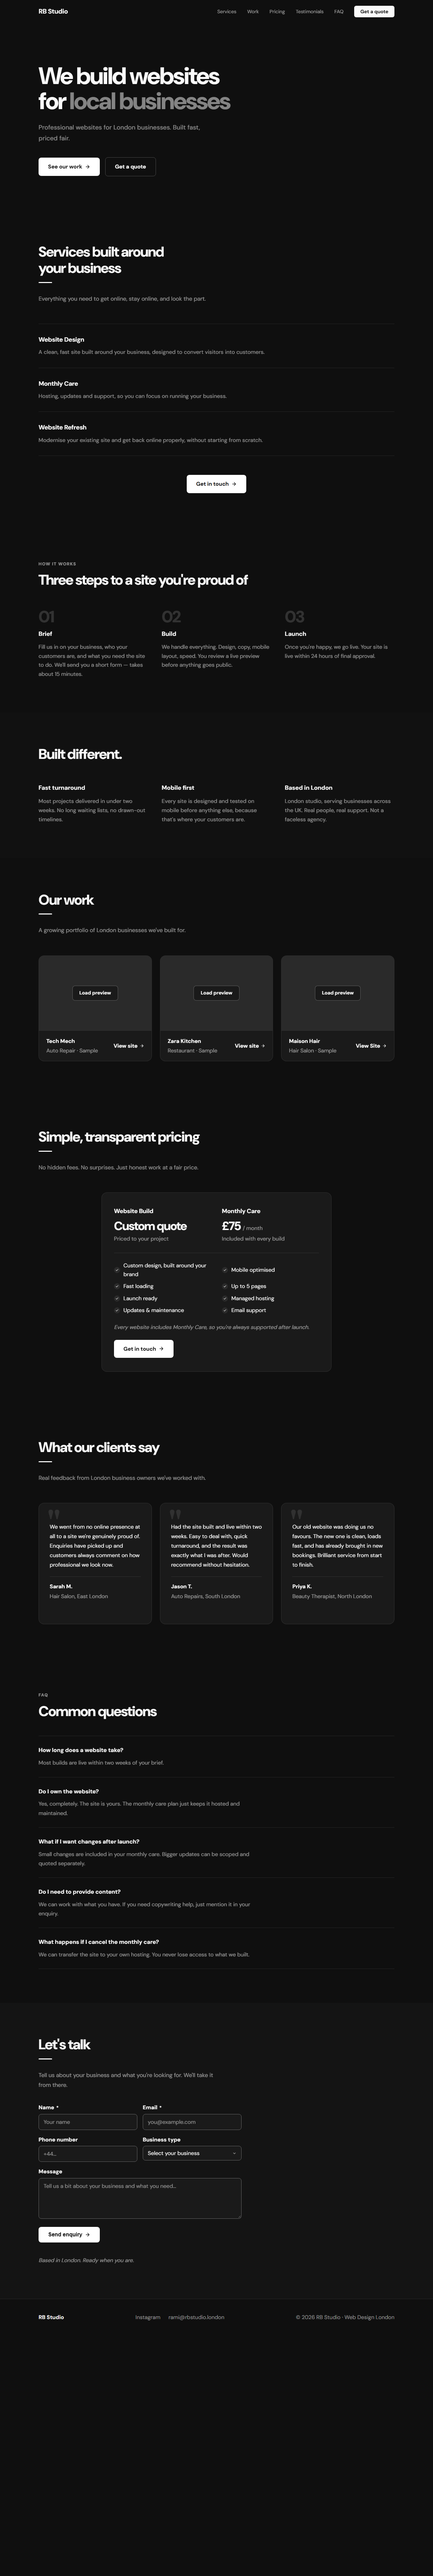
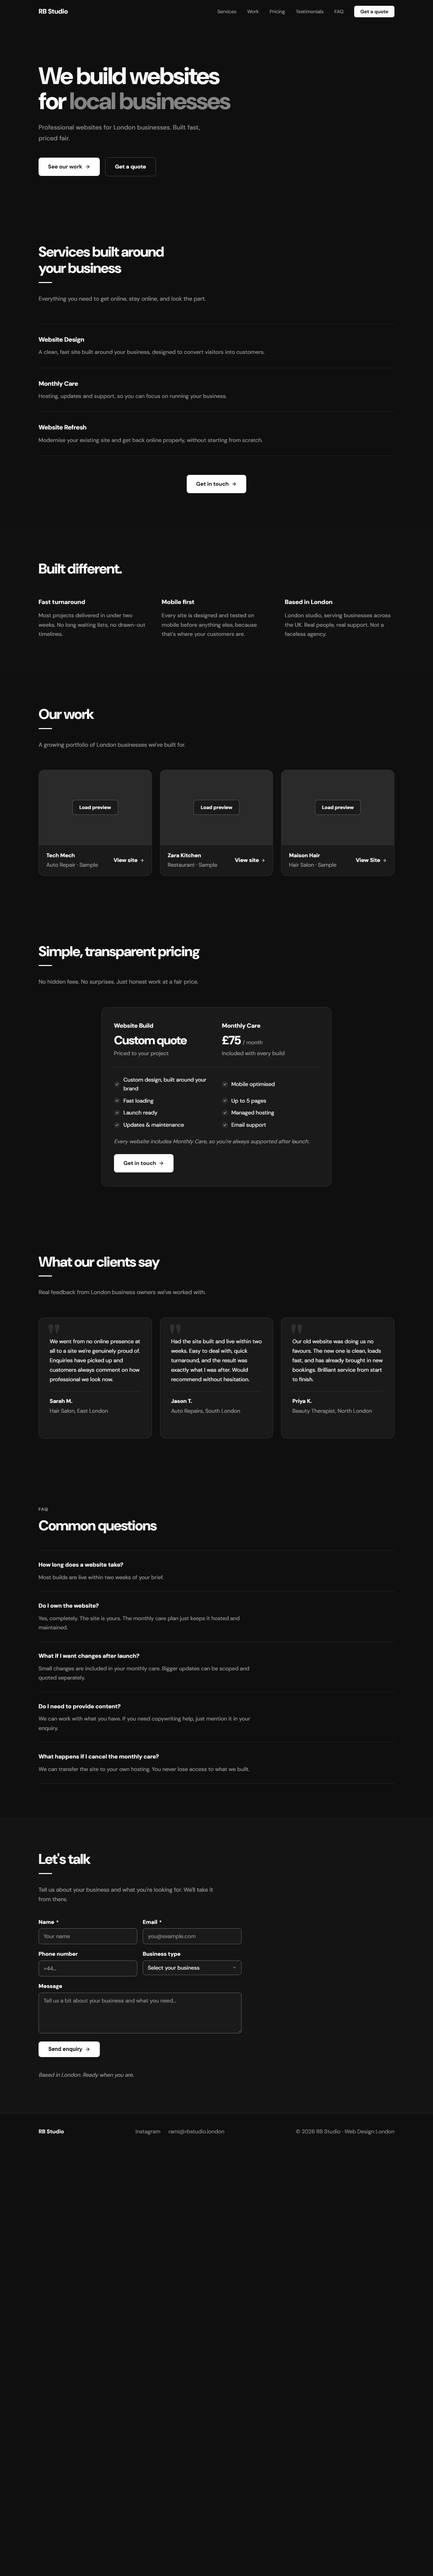
Remove How it works process section
Delete the process section markup. Its CSS and the FAQ link stay in place.
Refresh renders.

diff --git a/index.html b/index.html
@@ -1249,33 +1249,6 @@
     </div>
   </section>
 
-  <!-- PROCESS -->
-  <section id="process">
-    <div class="container">
-      <div class="fade-in">
-        <p class="section-label">How it works</p>
-        <h2 class="section-title">Three steps to a site you're proud of</h2>
-      </div>
-      <div class="process-grid">
-        <div class="process-item fade-in fade-in-delay-1">
-          <div class="process-num">01</div>
-          <h3 class="process-title">Brief</h3>
-          <p class="process-desc">Fill us in on your business, who your customers are, and what you need the site to do. We'll send you a short form — takes about 15 minutes.</p>
-        </div>
-        <div class="process-item fade-in fade-in-delay-2">
-          <div class="process-num">02</div>
-          <h3 class="process-title">Build</h3>
-          <p class="process-desc">We handle everything. Design, copy, mobile layout, speed. You review a live preview before anything goes public.</p>
-        </div>
-        <div class="process-item fade-in fade-in-delay-3">
-          <div class="process-num">03</div>
-          <h3 class="process-title">Launch</h3>
-          <p class="process-desc">Once you're happy, we go live. Your site is live within 24 hours of final approval.</p>
-        </div>
-      </div>
-    </div>
-  </section>
-
   <!-- WHY RB STUDIO -->
   <section id="why">
     <div class="container">
